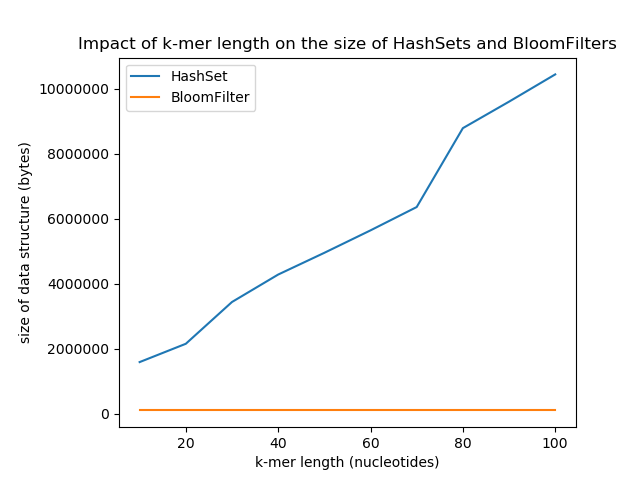
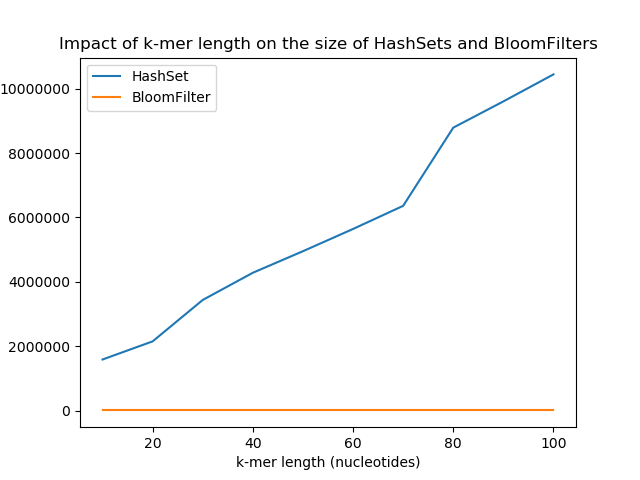
fixed plot for k-mer length vs ds size and added run time code

diff --git a/src/analysis/data_analysis.py b/src/analysis/data_analysis.py
@@ -70,7 +70,7 @@ def kmerLength_vs_hashset_size():
     for i in x:
         preprocessBloomFilterHIV(i, 0)
         preprocessHashSetHIV(i)
-        y_bf_bytes.append(bf_final.getBitSize())
+        y_bf_bytes.append(bf_final.getBitSize() / 8)
         y_hs_bytes.append(asizeof.asizeof(hs_final))
     fig = plt.figure()
     plt.plot(x, y_hs_bytes, label='HashSet')
@@ -83,11 +83,34 @@ def kmerLength_vs_hashset_size():
     plt.show()
 
 
-def timeAnalysis():
+def hashsetTimeAnalysis():
     """
     This will use Python's timeit method to find how long it takes to build the bloom filters and hash sets
     """
 
+    SETUP_CODE = ''' 
+from __main__ import preprocessHashSetHIV'''
+
+    TEST_CODE = ''' 
+preprocessHashSetHIV(100)'''
+
+    times = timeit.repeat(setup=SETUP_CODE, stmt=TEST_CODE, number=10)
+    print('Hash set creation and merge time: {}'.format(min(times)))
+
+
+def bloomfilterTimeAnalysis():
+    """
+    This will use Python's timeit method to find how long it takes to build the bloom filters and hash sets
+    """
+
+    SETUP_CODE = ''' 
+from __main__ import preprocessBloomFilterHIV'''
+
+    TEST_CODE = ''' 
+preprocessBloomFilterHIV(100, 0)'''
+
+    times = timeit.repeat(setup=SETUP_CODE, stmt=TEST_CODE, number=10)
+    print('Bloom filter creation and merge time: {}'.format(min(times)))
 
 
 

diff --git a/src/analysis/main.py b/src/analysis/main.py
@@ -7,3 +7,5 @@ This file is just used to run methods in the data_analysis.py file
 """
 
 kmerLength_vs_hashset_size()
+# hashsetTimeAnalysis()
+# bloomfilterTimeAnalysis()
